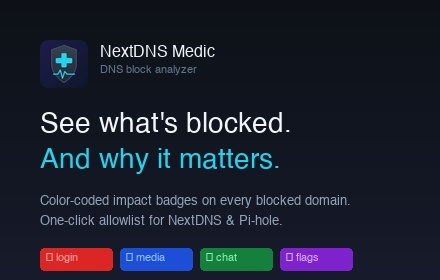
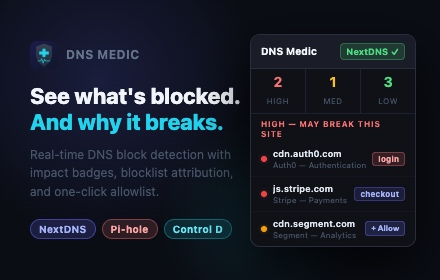
design: new promo tile for Chrome Web Store v3.2.0
- Updated branding (DNS Medic, not NextDNS Medic)
- All three providers: NextDNS, Pi-hole, Control D
- Live popup mockup with impact badges on right
- Dark theme, matches current UI

diff --git a/store/screenshots/source/promo-tile.html b/store/screenshots/source/promo-tile.html
@@ -1,0 +1,234 @@
+<!DOCTYPE html>
+<html lang="en">
+<head>
+<meta charset="UTF-8">
+<style>
+* { margin:0; padding:0; box-sizing:border-box; }
+html, body {
+  width: 440px; height: 280px; overflow: hidden;
+  font-family: -apple-system, BlinkMacSystemFont, "Segoe UI", sans-serif;
+}
+body {
+  background: #0a0d14;
+  position: relative;
+  display: flex;
+  align-items: center;
+  justify-content: space-between;
+  padding: 0 28px 0 30px;
+}
+
+/* Background glow */
+.glow {
+  position: absolute;
+  width: 320px; height: 320px;
+  border-radius: 50%;
+  background: radial-gradient(circle, rgba(99,102,241,0.18) 0%, transparent 70%);
+  top: -80px; left: -60px;
+  pointer-events: none;
+}
+.glow2 {
+  position: absolute;
+  width: 200px; height: 200px;
+  border-radius: 50%;
+  background: radial-gradient(circle, rgba(34,211,238,0.10) 0%, transparent 70%);
+  bottom: -40px; right: 80px;
+  pointer-events: none;
+}
+
+/* Left column */
+.left {
+  flex: 0 0 220px;
+  display: flex;
+  flex-direction: column;
+  gap: 0;
+  position: relative;
+  z-index: 1;
+}
+
+.brand {
+  display: flex;
+  align-items: center;
+  gap: 8px;
+  margin-bottom: 14px;
+}
+.brand img {
+  width: 28px; height: 28px;
+  border-radius: 7px;
+}
+.brand-name {
+  font-size: 12px;
+  font-weight: 700;
+  color: #64748b;
+  letter-spacing: .04em;
+  text-transform: uppercase;
+}
+
+.headline {
+  font-size: 22px;
+  font-weight: 800;
+  line-height: 1.2;
+  color: #f1f5f9;
+  margin-bottom: 10px;
+}
+.headline em {
+  font-style: normal;
+  color: #22d3ee;
+}
+
+.sub {
+  font-size: 12px;
+  color: #475569;
+  line-height: 1.55;
+  margin-bottom: 18px;
+}
+
+.providers {
+  display: flex;
+  gap: 6px;
+}
+.provider-chip {
+  font-size: 10px;
+  font-weight: 700;
+  padding: 3px 8px;
+  border-radius: 20px;
+  letter-spacing: .02em;
+}
+.p-nextdns { background: rgba(99,102,241,0.2); border: 1px solid rgba(99,102,241,0.5); color: #a5b4fc; }
+.p-pihole  { background: rgba(248,113,113,0.15); border: 1px solid rgba(248,113,113,0.4); color: #fca5a5; }
+.p-controld { background: rgba(34,211,238,0.12); border: 1px solid rgba(34,211,238,0.35); color: #67e8f9; }
+
+/* Right column — mini popup mockup */
+.right {
+  flex: 0 0 158px;
+  position: relative;
+  z-index: 1;
+}
+
+.popup {
+  background: #0f1117;
+  border: 1px solid #2a2d3e;
+  border-radius: 10px;
+  overflow: hidden;
+  box-shadow: 0 20px 50px rgba(0,0,0,0.8);
+}
+
+.p-header {
+  background: #1a1d27;
+  padding: 8px 10px;
+  display: flex;
+  align-items: center;
+  justify-content: space-between;
+  border-bottom: 1px solid #2a2d3e;
+}
+.p-title { font-size: 10px; font-weight: 700; color: #f1f5f9; }
+.p-badge { font-size: 9px; font-weight: 700; padding: 2px 5px; border-radius: 4px; background: rgba(74,222,128,0.15); border: 1px solid rgba(74,222,128,0.3); color: #4ade80; }
+
+.p-stats {
+  display: flex;
+  border-bottom: 1px solid #1e2130;
+}
+.p-stat { flex:1; text-align:center; padding: 6px 0; }
+.p-stat:not(:last-child) { border-right: 1px solid #1e2130; }
+.p-stat-n { font-size: 14px; font-weight: 700; line-height: 1; display: block; }
+.p-stat-l { font-size: 8px; color: #475569; text-transform: uppercase; letter-spacing: .05em; }
+.high-n { color: #f87171; }
+.med-n  { color: #fbbf24; }
+.low-n  { color: #4ade80; }
+
+.p-section { font-size: 8px; font-weight: 700; letter-spacing: .08em; text-transform: uppercase; padding: 5px 10px 3px; color: #f87171; }
+
+.p-row {
+  display: flex;
+  align-items: center;
+  gap: 6px;
+  padding: 6px 10px;
+  border-bottom: 1px solid #13161f;
+}
+.dot { width: 6px; height: 6px; border-radius: 50%; flex-shrink: 0; }
+.dot-h { background: #ef4444; box-shadow: 0 0 4px #ef444477; }
+.dot-m { background: #f59e0b; box-shadow: 0 0 4px #f59e0b77; }
+
+.p-row-info { flex: 1; min-width: 0; }
+.p-domain { font-size: 9px; font-weight: 600; color: #e2e8f0; white-space: nowrap; overflow: hidden; text-overflow: ellipsis; }
+.p-label  { font-size: 8px; color: #475569; margin-top: 1px; white-space: nowrap; overflow: hidden; text-overflow: ellipsis; }
+
+.impact {
+  font-size: 8px; font-weight: 700;
+  padding: 1px 5px; border-radius: 3px;
+  white-space: nowrap;
+  flex-shrink: 0;
+}
+.imp-login  { background: rgba(248,113,113,0.15); border: 1px solid rgba(248,113,113,0.35); color: #fca5a5; }
+.imp-flags  { background: rgba(168,85,247,0.15);  border: 1px solid rgba(168,85,247,0.35);  color: #d8b4fe; }
+.imp-pay    { background: rgba(99,102,241,0.15);  border: 1px solid rgba(99,102,241,0.35);  color: #a5b4fc; }
+
+.allowlist-btn {
+  font-size: 8px; font-weight: 600;
+  padding: 2px 5px; border-radius: 3px;
+  background: rgba(99,102,241,0.2);
+  border: 1px solid rgba(99,102,241,0.4);
+  color: #a5b4fc;
+  flex-shrink: 0;
+  cursor: pointer;
+}
+</style>
+</head>
+<body>
+<div class="glow"></div>
+<div class="glow2"></div>
+
+<div class="left">
+  <div class="brand">
+    <img src="../../../icons/icon48.png" alt="">
+    <span class="brand-name">DNS Medic</span>
+  </div>
+  <div class="headline">See what's blocked.<br><em>And why it breaks.</em></div>
+  <div class="sub">Real-time DNS block detection with impact badges, blocklist attribution, and one-click allowlist.</div>
+  <div class="providers">
+    <span class="provider-chip p-nextdns">NextDNS</span>
+    <span class="provider-chip p-pihole">Pi-hole</span>
+    <span class="provider-chip p-controld">Control D</span>
+  </div>
+</div>
+
+<div class="right">
+  <div class="popup">
+    <div class="p-header">
+      <span class="p-title">DNS Medic</span>
+      <span class="p-badge">NextDNS ✓</span>
+    </div>
+    <div class="p-stats">
+      <div class="p-stat"><span class="p-stat-n high-n">2</span><span class="p-stat-l">High</span></div>
+      <div class="p-stat"><span class="p-stat-n med-n">1</span><span class="p-stat-l">Med</span></div>
+      <div class="p-stat"><span class="p-stat-n low-n">3</span><span class="p-stat-l">Low</span></div>
+    </div>
+    <div class="p-section">HIGH — May break this site</div>
+    <div class="p-row">
+      <div class="dot dot-h"></div>
+      <div class="p-row-info">
+        <div class="p-domain">cdn.auth0.com</div>
+        <div class="p-label">Auth0 — Authentication</div>
+      </div>
+      <span class="impact imp-login">login</span>
+    </div>
+    <div class="p-row">
+      <div class="dot dot-h"></div>
+      <div class="p-row-info">
+        <div class="p-domain">js.stripe.com</div>
+        <div class="p-label">Stripe — Payments</div>
+      </div>
+      <span class="impact imp-pay">checkout</span>
+    </div>
+    <div class="p-row" style="border-bottom:none;">
+      <div class="dot dot-m"></div>
+      <div class="p-row-info">
+        <div class="p-domain">cdn.segment.com</div>
+        <div class="p-label">Segment — Analytics</div>
+      </div>
+      <button class="allowlist-btn">+ Allow</button>
+    </div>
+  </div>
+</div>
+
+</body>
+</html>
